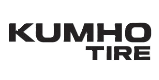
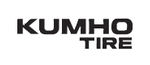
Kumho 브랜드 로고 크기 변경
159x80 -> 150x65로 크기 조정
- 브랜드 박스 aspect-ratio(1.43:1)에 맞춤
- resize_kumho_150x65.py 스크립트 생성

🤖 Generated with [Claude Code](https://claude.com/claude-code)

Changed region(s): [[0.0533, 0.2769, 0.96, 0.7692], [0.4533, 0.2769, 0.48, 0.3385]]

diff --git a/resize_kumho_150x65.py b/resize_kumho_150x65.py
@@ -1,0 +1,46 @@
+"""
+kumho 브랜드 로고 크기 조정
+159x80 -> 150x65
+"""
+from PIL import Image
+import os
+
+brand_file = r"C:\Users\jmyang\Dropbox\1.0_tirepass\tire_data\static\mobile\img\brands\kumho.png"
+
+print("kumho 로고 크기 조정 시작...")
+
+try:
+    # 이미지 열기
+    img = Image.open(brand_file)
+    original_width, original_height = img.size
+    print(f"현재 크기: {original_width}x{original_height}")
+
+    # 새로운 크기
+    new_width = 150
+    new_height = 65
+
+    # RGBA 모드로 변환 (투명도 지원)
+    if img.mode != 'RGBA':
+        img = img.convert('RGBA')
+
+    # 비율 유지하며 리사이즈
+    # 150x65에 맞추되, 종횡비 유지
+    img.thumbnail((new_width, new_height), Image.Resampling.LANCZOS)
+    resized_width, resized_height = img.size
+
+    # 새로운 캔버스 생성 (투명 배경)
+    new_img = Image.new('RGBA', (new_width, new_height), (255, 255, 255, 0))
+
+    # 중앙에 배치
+    paste_x = (new_width - resized_width) // 2
+    paste_y = (new_height - resized_height) // 2
+    new_img.paste(img, (paste_x, paste_y), img)
+
+    # 파일 저장
+    new_img.save(brand_file, 'PNG', optimize=True)
+
+    print(f"[OK] kumho.png: {original_width}x{original_height} -> {new_width}x{new_height}")
+    print("kumho 로고 크기 조정 완료!")
+
+except Exception as e:
+    print(f"[ERROR] 에러 발생 - {str(e)}")
